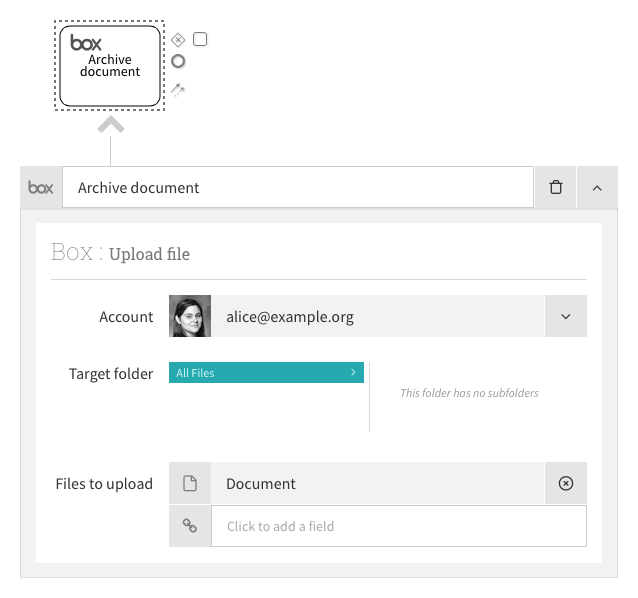
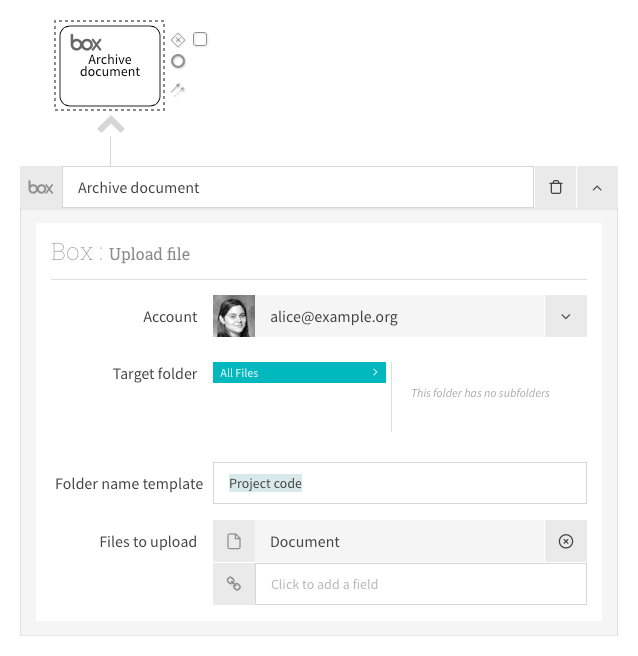
Add file upload activities’ ‘Folder name template’

diff --git a/docs/action-types/box.rst b/docs/action-types/box.rst
@@ -40,4 +40,12 @@ Other people in your organization will be able to see that you have configured a
 
 On the configuration panel, next to `Target folder`, you can now browse and select the folder you want to upload the file(s) to.
 
+Next to `Folder name template`, 
+you can optionally specify a subfolder name to create inside the target folder.
+This name template can include process variables, 
+so you can create new subfolders dynamically to organise your files.
+For example, if your process variables include a unique customer ID, 
+then you can use that to save each customer’s files in a separate folder.
+Use a forward slash (``/``) to separate nested subfolder levels.
+
 Next to `Files to upload`, you can select the variable field containing one or more files to be uploaded. If there was no file variable, a variable called 'File' is created automatically. If there was already a file or list of files in the variables, it is preselected.

diff --git a/docs/action-types/google.rst b/docs/action-types/google.rst
@@ -55,6 +55,14 @@ Other people in your organization will be able to see that you have configured a
 
 In the section `Target folder` you can now browse and select the folder you want to upload the file(s) to.
 
+Next to `Folder name template`, 
+you can optionally specify a subfolder name to create inside the target folder.
+This name template can include process variables, 
+so you can create new subfolders dynamically to organise your files.
+For example, if your process variables include a unique customer ID, 
+then you can use that to save each customer’s files in a separate folder.
+Use a forward slash (``/``) to separate nested subfolder levels.
+
 In section `Files to upload`, you can select the variable field containing one or more files to be uploaded. If there was no file variable, a variable called 'File' is created automatically. If there was already a file or list of files in the variables, it is preselected.
 
 
